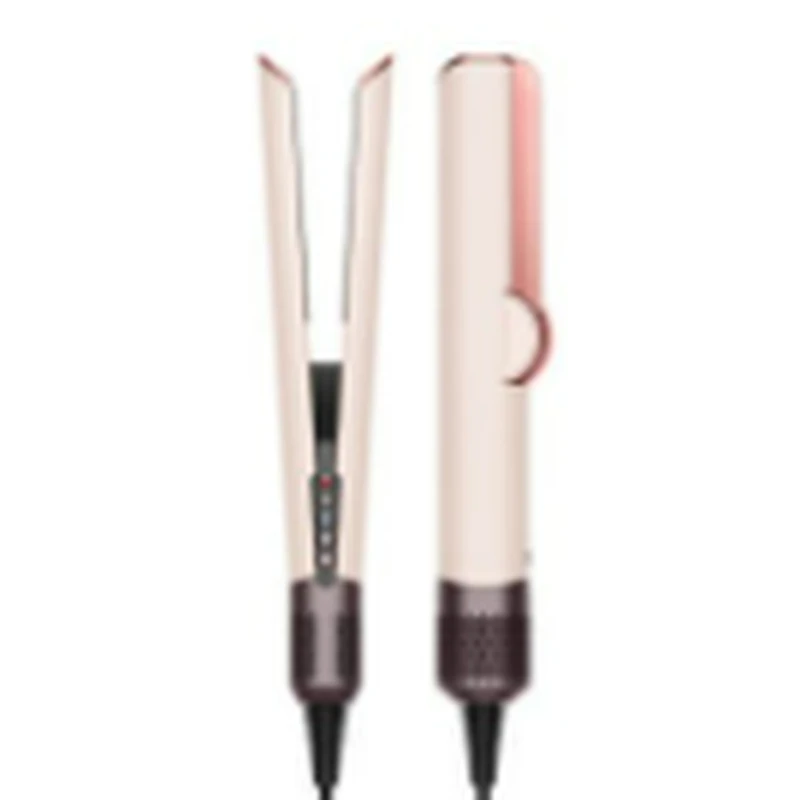
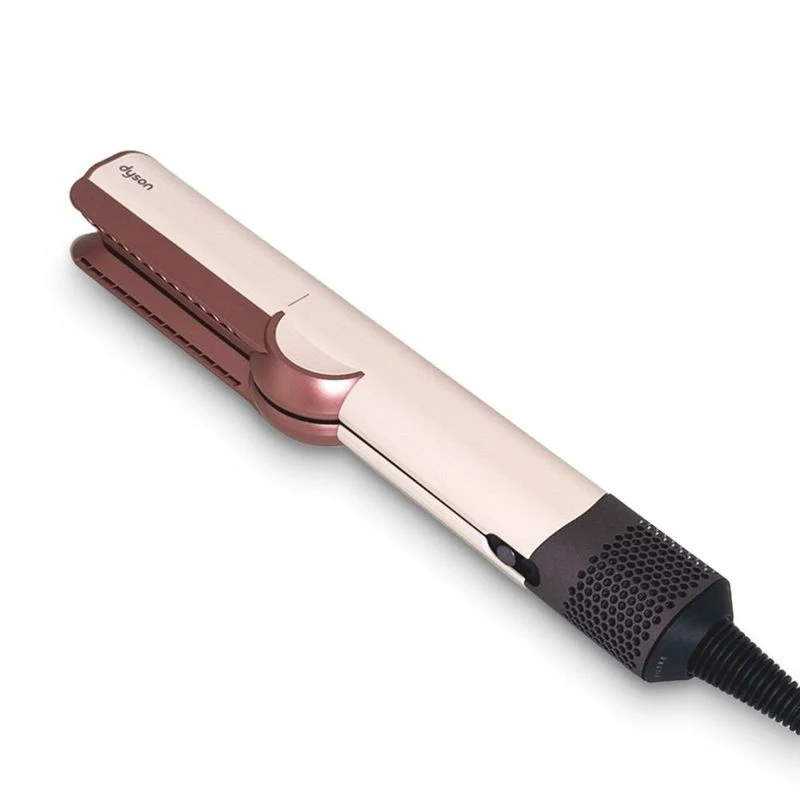
v43: 다이슨 에어스트레이트 사진을 선명한 상품 사진으로 교체

diff --git a/sw.js b/sw.js
@@ -1,5 +1,5 @@
 // 오프라인에서도 열리도록 앱 파일을 저장해 둠 (파일을 고치면 VERSION과 index.html의 ?v= 숫자를 같이 올리기)
-var VERSION = 'goodbye-v42';
+var VERSION = 'goodbye-v43';
 var FILES = ['./', 'index.html', 'app.css?v=39', 'app.js?v=39', 'hunt.js?v=39', 'vendor/three.min.js', 'manifest.webmanifest', 'img/hunt/store.webp', 'img/hunt/store-s.webp', 'img/hunt/f-back-1.webp', 'img/hunt/m-back-1.webp',
   'icons/icon-192.png', 'icons/icon-512.png', 'icons/apple-touch-icon.png', 'icons/icon-maskable-512.png',
   'img/p1.webp', 'img/p2.webp', 'img/p3.webp', 'img/p4.webp', 'img/p5.webp', 'img/p6.webp', 'img/i1.webp', 'img/n1.webp', 'img/n1-l.webp', 'img/n2.webp', 'img/n2-l.webp', 'img/n3.webp', 'img/n3-l.webp', 'img/n4.webp', 'img/n4-l.webp', 'img/n5.webp', 'img/n5-l.webp', 'img/n6.webp', 'img/n6-l.webp', 'img/n7.webp', 'img/n7-l.webp', 'img/i2.webp', 'img/i3.webp', 'img/i4.webp', 'img/i5.webp',

diff --git a/index.html b/index.html
@@ -13,13 +13,13 @@
 <meta name="mobile-web-app-capable" content="yes">
 <meta name="apple-mobile-web-app-status-bar-style" content="default">
 <meta name="apple-mobile-web-app-title" content="굿바이마켓">
-<link rel="stylesheet" href="app.css?v=42">
+<link rel="stylesheet" href="app.css?v=43">
 </head>
 <body>
 <div id="app" aria-live="polite"></div>
 <div id="toast" role="status"></div>
-<script src="hunt.js?v=42"></script>
-<script src="app.js?v=42"></script>
+<script src="hunt.js?v=43"></script>
+<script src="app.js?v=43"></script>
 <script>
 if ('serviceWorker' in navigator) {
   window.addEventListener('load', function () { navigator.serviceWorker.register('sw.js').catch(function () {}); });
